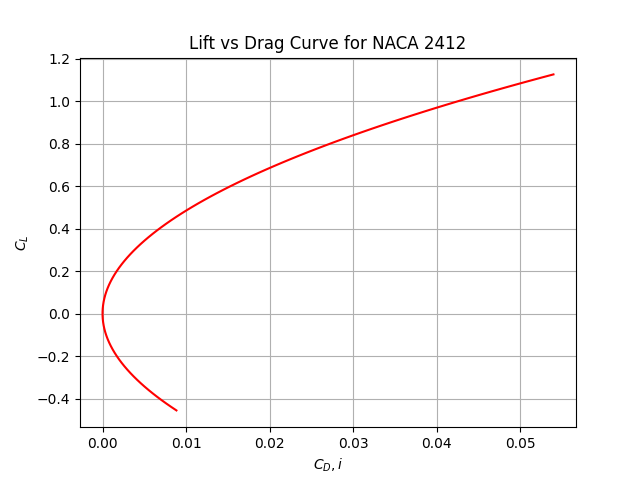
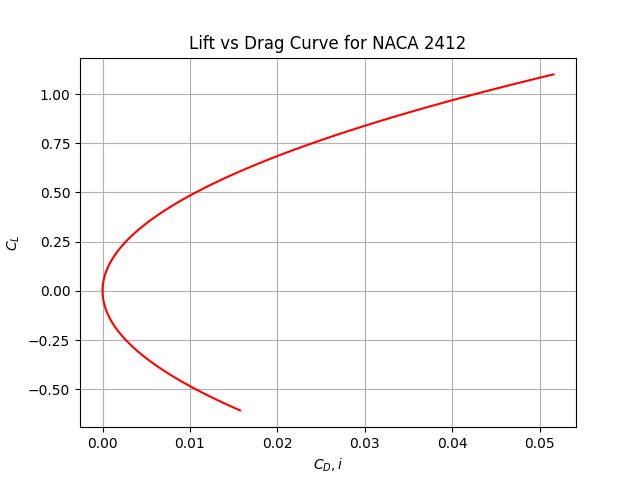
bug squashed

diff --git a/final_project/Wing.py b/final_project/Wing.py
@@ -76,7 +76,12 @@ class Wing:
 
         return 1/2*(np.pi * A[0] * self.AR) * self.rho * self.V_inf**2 * self.S
         print(A)"""
-        return np.pi * A[0] * self.AR
+
+        delta = 0
+        for i in range(self.N):
+            delta += i * (A[i]/A[1])**2
+
+        return np.pi * A[0] * self.AR, delta
 
     def plot_CL(self, n_points):
         fig, ax = plt.subplots()
@@ -85,7 +90,7 @@ class Wing:
         CL = np.zeros(n_points)
 
         for i in range(n_points):
-            CL[i] = self.vortex_distribution(alpha_i[i])
+            CL[i], delta = self.vortex_distribution(alpha_i[i])
 
         ax.plot(np.degrees(alpha_i), CL, color="red")
         ax.plot(np.degrees(alpha_i), self.airfoil.Cl, color="blue")
@@ -93,7 +98,7 @@ class Wing:
                    linestyle=(0, (1, 3)))
         ax.axhline(y=0, color="black", linestyle=(0, (1, 3)))
 
-        fig.legend(("Finite wing", "2D airfoil"))
+        fig.legend(("Finite Wing", "Thin Airfoil"))
 
         ax.set_xlabel("α, angle of attack (°)")
         ax.set_ylabel("$c_l$")
@@ -110,7 +115,7 @@ class Wing:
         CD = np.zeros(n_points)
 
         for i in range(n_points):
-            CL[i] = self.vortex_distribution(alpha_i[i])
+            CL[i], delta = self.vortex_distribution(alpha_i[i])
             CD[i] = CL[i]**2/(np.pi*self.AR)
 
         ax.plot(CD, CL, color="red")
@@ -129,7 +134,7 @@ class Wing:
         ratio = np.zeros(n_points)
 
         for i in range(n_points):
-            CL = self.vortex_distribution(alpha_i[i])
+            CL, delta = self.vortex_distribution(alpha_i[i])
             CD = CL**2/(np.pi*self.AR)
 
             ratio[i] = CL/CD
@@ -167,16 +172,17 @@ class Wing:
         return drag
 
     def lift_and_drag(self, AoA):
-        CL = self.vortex_distribution(AoA)
+        CL, delta = self.vortex_distribution(AoA)
         CL_max = 1.65
         W = 1111*9.8
-        CD = CL**2/(np.pi*self.AR)
+        print(delta)
+        CD = CL**2/(np.pi*0.7*self.AR)
 
         lift = 1/2 * CL * self.rho * self.V_inf**2 * self.S
         drag_i = 1/2 * CD * self.rho * self.V_inf**2 * self.S
         drag_f = self.friction_drag()
 
-        V_stall = np.sqrt(2*W/(self.rho*self.S*CL))
+        V_stall = np.sqrt(2*W/(self.rho*self.S*CL_max))
 
         return CL, CD, lift, drag_i, drag_f, V_stall
 
@@ -188,7 +194,7 @@ def test(designation):
     wing = Wing(cessna, designation, air, 10)
 
     print(wing.lift_and_drag(np.radians(4.2)))
-    wing.plot_CL(100)
+    wing.plot_CLCD(100)
 
 
 def main():
